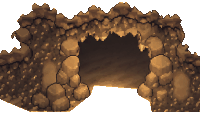
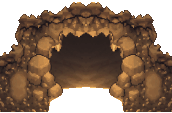
Passagem para a Tumba simétrica (lado direito espelhado) (em revisão)
Claude-Session: https://claude.ai/code/session_01DxMENvJSpBJLKVoAtLL83c

diff --git a/mapas/Mapa_TemploSoterrado/templo_soterrado.js b/mapas/Mapa_TemploSoterrado/templo_soterrado.js
@@ -125,10 +125,10 @@ function buriedTemple(){
  for(let k=0;k<26;k++){const x=(52+hq(k,191)*16)*T,y=(14+hq(k,192)*4)*T;og.fillStyle=hq(k,193)<.5?'#e8c040':'#b08820';og.fillRect(x|0,y|0,3,2);og.fillStyle='#fff0a0';og.fillRect(x|0,y|0,1,1)}
  dark.push([60*T+8,14*T,80,.6]);
  /* Galeria Norte: a boca natural da caverna na parede norte — a peça recortada da imagem de referência do Ricardo
-    (arte/passagem_boca.png, metade do tamanho, 128 cores), pintada no ov com a boca centrada na porta. Desce para a Tumba do
+    (arte/passagem_boca.png, metade do tamanho, 128 cores, simétrica: o lado direito espelhado no esquerdo), pintada no ov com a boca centrada na porta. Desce para a Tumba do
     Rei da Areia (tr), chegando em (60, 115). Colisão: as colunas de pedra nas fileiras do chão, menos a boca. */
  {let ty=15;while(ty>2&&F[(ty-1)*W+106])ty--;
-  const G={"w": 200, "h": 113, "mx": 114, "mb": 86},A=ART.passagem_boca,CX=106*T+8,BY=ty*T+4,x0=CX-G.mx,y0=BY-G.mb;
+  const G={"w": 172, "h": 113, "mx": 86, "mb": 86},A=ART.passagem_boca,CX=106*T+8,BY=ty*T+4,x0=CX-G.mx,y0=BY-G.mb;
   og.drawImage(A,x0,y0);
   const [c,,q]=cmCv(G.w,G.h);q.drawImage(A,0,0);const d=q.getImageData(0,0,G.w,G.h).data;
   for(let tyy=ty;tyy*T<y0+G.h;tyy++)for(let tx=Math.floor(x0/T);tx<=Math.floor((x0+G.w-1)/T);tx++){if(tx>=104&&tx<=108)continue;let n=0;

diff --git a/visualizador_ferramentas/gera_cavernas.py b/visualizador_ferramentas/gera_cavernas.py
@@ -126,10 +126,10 @@ TEMPLO = dict(
  for(let k=0;k<26;k++){const x=(52+hq(k,191)*16)*T,y=(14+hq(k,192)*4)*T;og.fillStyle=hq(k,193)<.5?'#e8c040':'#b08820';og.fillRect(x|0,y|0,3,2);og.fillStyle='#fff0a0';og.fillRect(x|0,y|0,1,1)}
  dark.push([60*T+8,14*T,80,.6]);
  /* Galeria Norte: a boca natural da caverna na parede norte — a peça recortada da imagem de referência do Ricardo
-    (arte/passagem_boca.png, metade do tamanho, 128 cores), pintada no ov com a boca centrada na porta. Desce para a Tumba do
+    (arte/passagem_boca.png, metade do tamanho, 128 cores, simétrica: o lado direito espelhado no esquerdo), pintada no ov com a boca centrada na porta. Desce para a Tumba do
     Rei da Areia (tr), chegando em (60, 115). Colisão: as colunas de pedra nas fileiras do chão, menos a boca. */
  {let ty=15;while(ty>2&&F[(ty-1)*W+106])ty--;
-  const G={"w": 200, "h": 113, "mx": 114, "mb": 86},A=ART.passagem_boca,CX=106*T+8,BY=ty*T+4,x0=CX-G.mx,y0=BY-G.mb;
+  const G={"w": 172, "h": 113, "mx": 86, "mb": 86},A=ART.passagem_boca,CX=106*T+8,BY=ty*T+4,x0=CX-G.mx,y0=BY-G.mb;
   og.drawImage(A,x0,y0);
   const [c,,q]=cmCv(G.w,G.h);q.drawImage(A,0,0);const d=q.getImageData(0,0,G.w,G.h).data;
   for(let tyy=ty;tyy*T<y0+G.h;tyy++)for(let tx=Math.floor(x0/T);tx<=Math.floor((x0+G.w-1)/T);tx++){if(tx>=104&&tx<=108)continue;let n=0;

diff --git a/mapas/Mapa_TumbaReiAreia/MAPA.md b/mapas/Mapa_TumbaReiAreia/MAPA.md
@@ -13,7 +13,7 @@
 
 ## Entrada e saída
 
-- **Entra:** pela **boca natural de caverna** (recortada da imagem de referência do Ricardo: `Assets_Tumba/referencia_passagem.png` → `arte/passagem_boca.png`, metade do tamanho, 128 cores) na parede norte da **Galeria Norte do Templo
+- **Entra:** pela **boca natural de caverna** (recortada da imagem de referência do Ricardo: `Assets_Tumba/referencia_passagem.png` → `arte/passagem_boca.png`, metade do tamanho, 128 cores, simétrica: o lado direito espelhado no esquerdo) na parede norte da **Galeria Norte do Templo
   Soterrado**: porta nos tiles (104-108, 6) do Templo (campo `doors`). Chega aqui na **Antecâmara (60, 115)** (px: 968, 1840).
 - **Sai:** pela **borda sul, colunas 56-63**: `{k:'edge', m:'ts', x, y}` — volta para a Galeria Norte do Templo, no tile
   (106, 9), na frente da porta.
